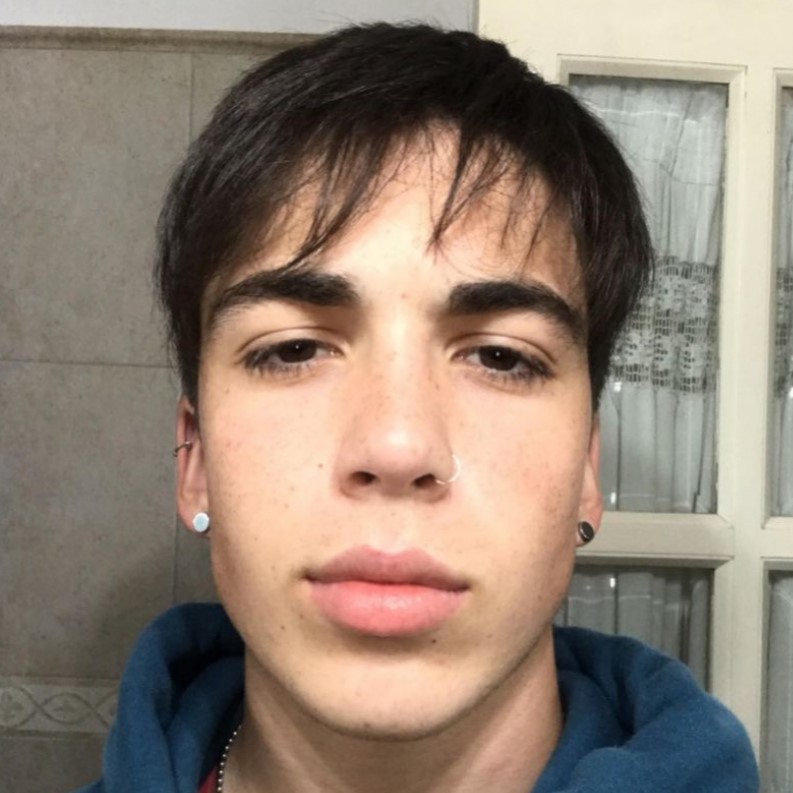
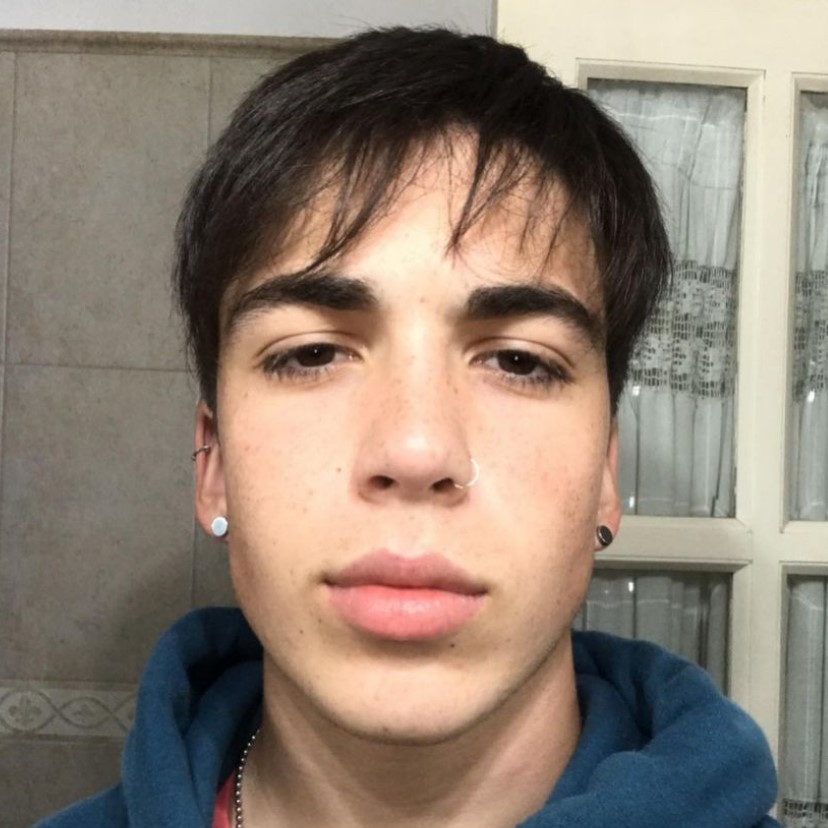
feat: pagina web terminada

diff --git a/Web Munay 2024/index.html b/Web Munay 2024/index.html
@@ -80,25 +80,25 @@
 
 					<div class="row gtr-150">
 						<div class="col-4 col-12-medium">
-							<span class="image fit"><img src="images/pic02.jpg" alt="" /></span>
+							<span class="image fit"><img src="images/juanse.jpg" alt="" /></span>
 							<h3>Juan Sebastián Lucentini</h3>
-							<p>Adipiscing a commodo ante nunc magna lorem et interdum mi ante nunc lobortis non amet vis sed volutpat et nascetur.</p>
+							<p>En este proyecto aprendí mucho sobre programación, tanto de desarrollo web como de aplicaciones, y me ayudó a confirmar que es lo que quiero estudiar y dedicarme en un futuro.</p>
 						</div>
 
 						<div class="col-4 col-12-medium">
-							<span class="image fit"><img src="images/pic03.jpg" alt="" /></span>
+							<span class="image fit"><img src="images/foto pagina web dubi.jpg" alt="" /></span>
 							<h3>Agustin Dubal</h3>
 							<p>Desde siempre me interesé por la electrónica y el desarrollo de software, en este proyecto pude absorber muchos conocimientos sobre estos temas y aprender aplicando estos conocimientos.</p>
 						</div>
 
 						<div class="col-4 col-12-medium">
-							<span class="image fit"><img src="images/pic04.jpg" alt="" /></span>
+							<span class="image fit"><img src="images/franco.jpeg" alt="" /></span>
 							<h3>Franco Nahuel Tamai</h3>
 							<p>Trabajar en este proyecto me ha permitido mejorar mis conocimientos y habilidades en mecánica y electrónica. Planeo continuar mis estudios en Bioingeniería una vez finalice mi tecnicatura, debido a mi gran interés por la electrónica aplicada a la salud.</p>
 						</div>
 
 						<div class="col-4 col-12-medium">
-							<span class="image fit"><img src="images/pic04.jpg" alt="" /></span>
+							<span class="image fit"><img src="images/maxi.JPG" alt="" /></span>
 							<h3>Máximo Badeigts</h3>
 							<p>Adipiscing a commodo ante nunc magna lorem et interdum mi ante nunc lobortis non amet vis sed volutpat et nascetur.</p>
 						</div>
@@ -110,7 +110,7 @@
 						</div>
 
 						<div class="col-4 col-12-medium">
-							<span class="image fit"><img src="images/pic04.jpg" alt="" /></span>
+							<span class="image fit"><img src="images/melchor.jpg" alt="" /></span>
 							<h3>Francisco Melchor</h3>
 							<p>Adipiscing a commodo ante nunc magna lorem et interdum mi ante nunc lobortis non amet vis sed volutpat et nascetur.</p>
 						</div>
